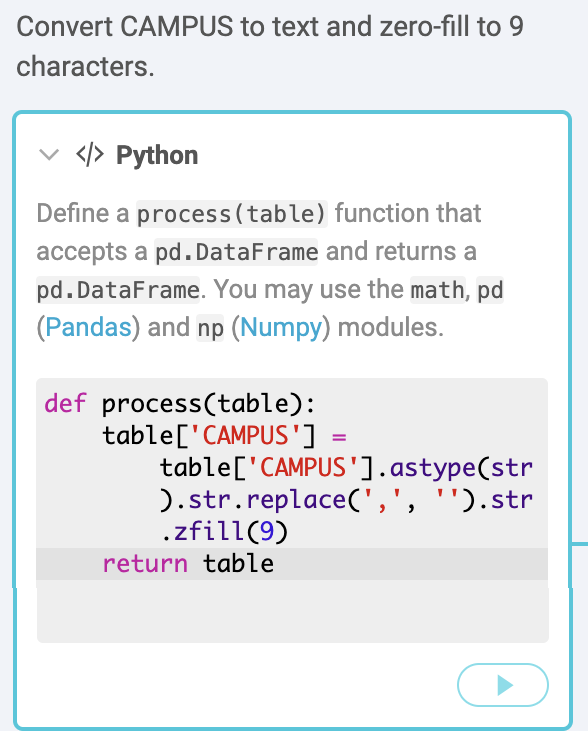
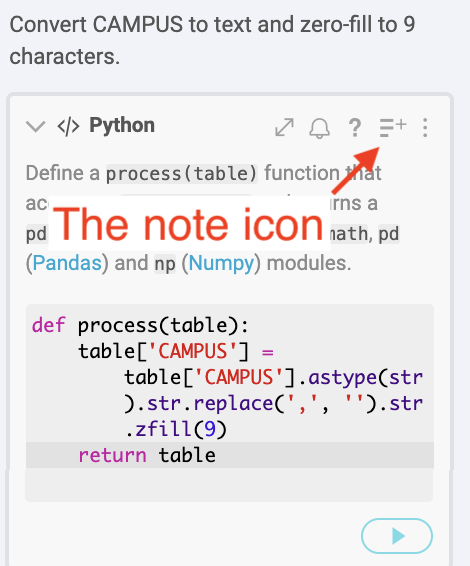
typos and fixes

diff --git a/ed-special-ed/rubric-wb.md b/ed-special-ed/rubric-wb.md
@@ -8,21 +8,21 @@ The goal is to find the answer to the following questions:
 
 - Which Austin ISD campus serves the highest percentage of Special Education students in 2019?
 - Which AISD campuses had the greatest percentage point change in Special Education students from 2015 to 2019?
-- How many AISD schools are above and below the previous special education "audit threshold" of 8.5%?
+- How many AISD schools are at or above the previous special education "audit threshold" of 8.5%?
 
-We will filter our list to focus on "Regular Instructional" schools, and not alternative, disciplinary or schools part of the justice system.
+We will filter our list to focus on "Regular Instructional" schools and not alternative, disciplinary or schools part of the justice system.
 
 ## Overview of our task
 
 - To get these answers, we need to build a data set that has one row for each school, but includes the CAMPUS id and Special Ed columns from both CSTUD files, along with the School Name and District Name for each school. We do this using a "join" on the CAMPUS id, which is in all three files. This allows us to extend the width of our table to include matching columns from each of the files.
 - Before we do the join function, we will filter our list of campuses to include only "Regular Instructional" schools.
-- Then we will have to create some new columns that does math to show the change in values from the older year, 2015, and the newer year, 2016, and how they compare to the old "audit threshold" reported on by the Chronicle.
+- Then we will have to create some new columns that does math to show the change in values from the older year, 2015, and the newer year, 2019, and how they compare to the old "audit threshold" reported on by the Chronicle.
 
 > It might make sense to draw this out on a whiteboard.
 
 ## Import and clean the data sets
 
-Once past the hassle of downloading the data, there are still some challenges to getting the answers above. Follow these steps for each:
+Once past the hassle of downloading the data, there are still some challenges to getting the answers above. Follow these steps for each of the three datasets you downloaded:
 
 - Make sure you've changed the filename extension of your downloaded files from `.dat` to `.csv` or they will not import into Workbench.
 - Import each data file into its **own** Workbench tab.
@@ -31,9 +31,9 @@ Once past the hassle of downloading the data, there are still some challenges to
 
 ### Fix the CAMPUS IDs
 
-All three data fies have a CAMPUS column this `CAMPUS` column that is supposed to be text with the IDs starting with one or more zeros, like `001902001`. There is no Workbench function to fix that (as of yet), but since Workbench uses Python's [pandas](https://pandas.pydata.org/) package, we can use some use Python code to fix this.
+All three data files have a `CAMPUS` column that is supposed to be text with the IDs starting with one or more zeros, like `001902001`. There is no Workbench function to fix that (as of yet), but since Workbench uses Python's [pandas](https://pandas.pydata.org/) package, we can use some use Python code to fix this.
 
-- After importing the data, create a new Python block and replace the code with the following:
+- After importing the data, create a new **Python** step and replace the code with the following:
 
 ```python
 def process(table):
@@ -57,7 +57,7 @@ Remember to do the Python step for all three imported files.
 
 ### Rename the program columns in CSTUDs
 
-Use the **Rename columns** function and the data dictionaries ([2015](https://rptsvr1.tea.texas.gov/perfreport/tapr/2015/xplore/cstud.html) | [2019](https://rptsvr1.tea.texas.gov/perfreport/tapr/2019/xplore/cstud.html)) to give each program column a short but recognizable name instead of their funky codes like `CPETSPEC`. Include a year designation so you can tell them apart when you join the columns together, like `SpEd15 Cnt` for the count and `SpEd15 Prc` for the percent.
+Use the **Rename columns** function and the data dictionaries ([2015](https://rptsvr1.tea.texas.gov/perfreport/tapr/2015/xplore/cstud.html) | [2019](https://rptsvr1.tea.texas.gov/perfreport/tapr/2019/xplore/cstud.html)) to give each program column a short but recognizable name instead of their funky codes like `CPETSPEC`. Include a year designation so you can tell them apart when you join the columns together, like `SpEd15 Count` for the count and `SpEd15 Prc` for the percent.
 
 Remember to do this in both CSTUD files.
 
@@ -71,7 +71,7 @@ Again, remember to do this with both CSTUD years.
 
 <img src="img/sped-select.png" width="300">
 
-## Filter up CRATE data
+## Filter the CRATE data
 
 For this list of schools, we want to use some of the columns to filter out charter, alternative, disciplinary and justice department schools. We use the [Campus Accountability Summary Reference](https://rptsvr1.tea.texas.gov/perfreport/account/2019/download/camprate.html) to figure out which columns to filter on.
 
@@ -135,7 +135,7 @@ Now you can continue on the quest to find the schools with the most change in Sp
 
 ## How to describe the change
 
-Now that we have all our data in the same tab, we can us some formulas to compare the different years.
+Now that we have all our data in the same tab, we can use some formulas to compare the different years.
 
 We have two values for each year to work with: The "Count" of Special Ed students, which is the actual number of students in the program; and the "Percentage" of students in Special Education out of the total in that school.
 
@@ -143,15 +143,27 @@ We want to describe the change from one year to the next. You might review the N
 
 ### Describing the count changes
 
-- We can show the **simple difference** (or actual change) in the *count* of students from one year to the next: `New Count - Old Count = Simple Difference`. Example: `10 - 4 = 6`, or "The school served six more Special Education students in 2019 (10 students) compared to 2015 (4 students)".
-- We can show the **percent change** in the *count* of students from one year to the next: `((New Count - Old Count) / Old Count) * 100 = Percent change`. Example: `((10 - 4) \ 4) * 100 = 150%`. "The number of Special Education students served increased 150% from 4 in 2015 to 10 in 2019."
+- We can show the **simple difference** (or actual change) in the *count* of students from one year to the next. We'll assume there were `4` students in 2015 and `10` in 2019:
+  - `New Count - Old Count = Simple Difference`.
+  - Example: `10 - 4 = 6`.
+  - "The school served six more Special Education students in 2019 (10 students) compared to 2015 (four students)".
+- We can show the **percent change** in the *count* of students from one year to the next:
+  - `((New Count - Old Count) / Old Count) * 100 = Percent change`.
+  - Example: `((10 - 4) \ 4) * 100 = 150%`.
+  - "The number of Special Education students served increased 150% from four in 2015 to 10 in 2019."
 
 ### Describing percentage differences
 
 We also have the *percentage* of Special Education students in the school, which could be important. This is the share of students that are in the program compared to the total students in the school.
 
-- We can find the **percentage point difference** from one year to the next using simple change again, but we have the describe the change as the difference in percentage points: `New Percentage - Old Percentage = Percentage Point Difference`. Example: `15.5% - 11% = 4.5 percentage points` (NOT 4.5%). "The percentage of students in Special Education grew by 4.5 percentage points, from 11% in 2015 to 15.5% in 2019."
-- We can find the **percent change of share** from one year to the next, but we have to again be very specific about what we are talking about ... the growth (or decrease) of the _share_ of students in Special Education. `((New Percentage - Old Percentage) / Old Percentage * 100) = Change in share of students`. Example: `((15.5 - 11) / 11) * 100 = 40.9`. "The share of students in Special Education grew 40% from 11% of students in 2015 to 15.5% of students in 2019." This describes the growth in the share of students in the program, not the number of Special Education students overall.
+- We can find the **percentage point difference** from one year to the next using simple change again, but we have the describe the change as the difference in percentage points:
+  - `New Percentage - Old Percentage = Percentage Point Difference`.
+  - Example: `15.5% - 11% = 4.5 percentage points` (NOT 4.5%).
+  - "The percentage of students in Special Education grew by 4.5 percentage points, from 11% in 2015 to 15.5% in 2019."
+- We can find the **percent change of share** from one year to the next, but we have to again be very specific about what we are talking about ... the growth (or decrease) of the _share_ of students in Special Education.
+  - `((New Percentage - Old Percentage) / Old Percentage * 100) = Change in share of students`.
+  - Example: `((15.5 - 11) / 11) * 100 = 40.9`.
+  - "The share of students in Special Education grew 40% from 11% of students in 2015 to 15.5% of students in 2019." This describes the growth in the share of students in the program, not the number of Special Education students overall.
 
 Describing a percentage point difference to readers can be difficult, but perhaps less confusing than describing the percent change of a percent.
 
@@ -159,7 +171,7 @@ Great, so which do we use? That depends on what you want to describe, of course.
 
 ## Create our calculations
 
-We'll make new columns to help us describe several of those outlined above.
+We'll make new columns to help us describe several of those changes outlined above.
 
 ### Difference in count
 
@@ -178,12 +190,13 @@ This will tell us the gain or drop of actual students from year to year.
 - Add a step **Convert to numbers**.
 - Add the new "SpEd Count Diff" column.
 - Leave the format as "United States".
-- Leave the value "Any number"
+- Leave the value "Any number".
 - Change the **Display as** to "Integer: 1,500".
+- **Add a note** to explain the step.
 
 <img src="img/diff-to-number.png" width="300">
 
-Now you have a column that shows the gain or loss of students from 2015 to 2019.
+Look to the far right of your table and you should now have a column that shows the gain or loss of students from 2015 to 2019. Check it against the count values in your table to make sure it is right.
 
 ### Percent change in students
 
@@ -198,9 +211,9 @@ Now we'll create a column to show the percent change in students, again using th
 
 <img src="img/sped-cnt-prcchg.png" width="300">
 
-This formula looks complicated because we are really doing two things. In this case, we are using the percent change formula of `((New-Old)/Old) * 100)`. That gives us number with a bunch of decimal places, so we are putting it inside the ROUND formula: `ROUND(value,places)`. In our case the "value" is our percent-change formula, and the "places" is "1" to give us tenths. So, we are nesting our percent change formula inside the rounding formula.
+This formula looks complicated because we are really doing two things. In this case, we are using the percent change formula of `((New-Old)/Old) * 100)`. That gives us a number with a bunch of decimal places, so we are putting it inside the ROUND formula: `ROUND(value,places)`. In our case the "value" is our percent-change formula, and the "places" is "1" to give us tenths. So, we are nesting our percent change formula inside the rounding formula.
 
-> Tell me: Which is better ... to show you the complete formula first, or to do the percent change, then adapt the formula for rounding?
+> Give me feedback: Which is better ... to show you the complete formula first, or to do the percent change, then adapt the formula for rounding?
 
 Because of a Workbench bug, this new column might also end up as text instead of a number. We'll wait to change it because we can convert the next one at the same time as well.
 
@@ -211,7 +224,7 @@ Now we'll build the "Percent point difference" of the share of Special Education
 - Create a new step using **Formula**.
 - For the formula type use **Excel**.
 - Check the box for **Apply to all rows**.
-- For your **Formula**, start with the newer "SpEd Prc" column for 2019 and then subtract the older one from 2015. We again should nest it inside a ROUND formula: `=ROUND(E1-C1,1)`.
+- For your **Formula**, start with the newer `SpEd Prc` column for 2019 and then subtract the older one from 2015. We again should nest it inside a ROUND formula: `=ROUND(E1-C1,1)`.
 - For **Output column** name it "Sped Prc Pnt Diff".
 - **Add a note** to explain what the step/formula is for.
 
@@ -222,38 +235,38 @@ Now we'll build the "Percent point difference" of the share of Special Education
 If the Workbench bug is still present, the last two columns you created will be a datatype of "Text". We need to change both of them to Number.
 
 - Add a step **Convert to numbers**.
-- Add your last two new columns: "SpEd Count PrcCng" and "Sped Prc Pnt Diff".
+- Add your last two new columns: `SpEd Count PrcCng` and `SpEd Prc Pnt Diff`.
 - Leave the format as "United States".
-- Leave the value "Any number"
+- Leave the value "Any number".
 - Change the **Display as** to "Decimal: 1,500.0012".
 
-We now have comparison columns we can use to look further into the data for a story.
+We now have a value to describe how the percentage has changed from year to year.
 
 ### Create audit threshold columns
 
 Our story is a follow-up to the Chronicle's reporting in the Denied series, which found that the TEA would audit schools that had a special education rate of 8.5% or higher. Let's figure out which schools fell into that category in each year.
 
-The formula we are using is Excel's [IF](https://support.office.com/en-us/article/if-function-69aed7c9-4e8a-4755-a9bc-aa8bbff73be2) formula. It works like this: `=IF(test, true, false)`. In the "test" field, we'll compare the percentage to 8.5%. If it is true, we will insert the text "Y" and if it is false, we'll say "N".
+The formula we are using is [Excel's IF](https://support.office.com/en-us/article/if-function-69aed7c9-4e8a-4755-a9bc-aa8bbff73be2) formula. It works like this: `=IF(test, true, false)`. In the "test" field, we'll compare the percentage to 8.5%. If it is true, we will insert the text "Y" and if it is false, we'll say "N".
 
 - On the SPED data, start a new step using **Formula** for **Excel**.
 - Look closely to see which of your column letter is the "SpEd15 Prc" column, which is the one we want. Mine is the `C` column.
-- For the Formula, use `=IF(C1>=8.5,"Y","N")`. Use your columns instead of C if it is different.
+- For the Formula, use `=IF(C1>=8.5,"Y","N")`. Use your column instead of `C` if it is different.
 - For the Output column, name it "SpEd15 Thrshld".
 
 <img src="img/sped-15-threshold.png" width="300">
 
 **On your own**: Repeat these steps for your 2019 data.
 
-We'll use these new fields later.
+Now we have a column that tells us if the school is at or above the audit threshold. We'll use these new fields later.
 
 ## Create Austin ISD comparisons
 
-We've been doing all this work on all the schools in the state, but we really want to look at Austin ISD. We'll create a new column to filter down to just the Austin schools and then sort to show the schools with the most new Special Education students at the top.
+We've been doing all this work on all the schools in the state, but we really want to look at Austin ISD. We'll create a new tab to filter down to just the Austin schools and then sort to show the schools with the most new Special Education students at the top.
 
 - Create a **new tab** and call it "AISD Diff".
 - Use **Start from tab** and choose your "SPED" tab.
 - Add a new function called **Filter by condition**.
-- For **Select column** add the "District name" column.
+- For **Select column** add the `DISTNAME` column.
 - For **Select condition** choose "Text contains".
 - For **Value** type in "AUSTIN ISD".
 
@@ -301,7 +314,7 @@ The last question we need to answer is how many schools were above or below the 
 
 What you've done here is the same as a pivot table in Google Sheets. The operation is counting the number of rows (or schools in our case) for each value combination.
 
-<img src="img/sped-thresh-result.png" width="400">
+<img src="img/sped-thresh-result.png" width="500">
 
 So there are 16 schools that were below the threshold both in 2015 and 2019, but 31 schools climbed above that threshold in 2019.
 
@@ -315,15 +328,13 @@ If you want to know which school gained the highest share of Special Education s
 
 You can describe how many schools climbed above the TEA's 2004 threshold, and how many were over it in 2015 before the law changed.
 
-> Food for thought: How might you find similar schools in the whole state so you can compare how Austin ISD ranks against them? Be careful not to change the values in your SPED column, as all the AISD columns use that.
-
 ## Turning in your work
 
-For the writing part of the assignment below you might have to re-sort some of these columns, but you shouldn't have to create any more. Be careful not to make changes (beyond sorting) to a tab that is the source of another tab ... those changes carry forward and can lead to confusion and unexpected results. If for some reason you want to explore a new fact, you should start a new tab and pull data into it before any filtering, selecting or grouping.
+For the writing part of the assignment below you should already have everything you need. If you want to explore the data more, be careful not to make changes (beyond sorting) to a tab that is the source of another tab ... those changes carry forward and can lead to confusion and unexpected results. If for some reason you want to explore a new fact, you should start a new tab and pull data into it before any filtering, selecting or grouping.
 
 ### Writing assignment
 
-Using Google Docs, write three "data nut graphs" -- a sentence (or paragraph) in a story that succinctly describes a data fact -- as if each were just a part of a complete news story. You don't need a lede. You aren't writing a whole story ... just three sentences or paragraphs, each describing of these facts.
+Using Google Docs, write three "data nut graphs" -- a sentence (or paragraph) in a story that succinctly describes a data fact -- as if each were just a part of a complete news story. You don't need a lede. You aren't writing a whole story ... just three sentences or paragraphs, each describing of these facts. **Be sure to share the doc to me as an editor.**
 
 - Which AUSTIN ISD school served the highest percentage of Special Education students?
 - Which AUSTIN ISD school had the greatest increase in Special Education students?
@@ -333,11 +344,15 @@ Lastly write a paragraph that explains the source of your data and the criteria 
 
 ### Questions for sources
 
-If you were writing a news story about Special Education and you had the data above, what are the **three** things you want to know next? For each question, who would you ask? (Just titles or classes of people, not actual contacts.)
+If you were writing a news story about Special Education and you had the data above, what are the **three things you want to know next**? For each question, who would you ask? (Just titles or classes of people, not actual contacts.)
 
 ### Workbench assignment
 
-- Make your Workbench workflow public. (Click on the share button, then check the "public" box.) Copy and include the link in your story or submit the link with the assignment.
+Make your Workbench workflow public. (Click on the share button, then check the "public" box.) Copy and include the link in your story or submit the link with the assignment.
+
+## Extending this assignment
+
+Food for thought: How might you find similar schools in the whole state so you can compare how Austin ISD ranks against them? This is not required for the assignment, but if you try it be careful not to change the values in your SPED column, as all the AISD columns use that.
 
 ## Ignore this
 

diff --git a/ed-special-ed/README.md b/ed-special-ed/README.md
@@ -1,8 +1,8 @@
 # Special Education student change
 
-The goal of this assignment is to use TEA data to find out which schools in Austin ISD (and the state in general) have the most growth in Special Education students in the past five years.
+The goal of this assignment is to use TEA data to find out which schools in Austin ISD have the most growth in Special Education students in the past five years.
 
-In 2016, the Houston Chronicle published a multi-part series called [Denied](https://www.houstonchronicle.com/denied/1/) that outlined how a TEA policy started in 2004 to audit schools with more than 8.5% Special Education students had a chilling effect on those services. From their story:
+In 2016, the Houston Chronicle published a multi-part series called [Denied](https://www.houstonchronicle.com/denied/1/) that outlined how a TEA policy started in 2004 would force an audit of schools with more than 8.5% of their students their Special Education students. From their story:
 
 > Over a decade ago, the officials arbitrarily decided what percentage of students should get special education services — 8.5 percent — and since then they have forced school districts to comply by strictly auditing those serving too many kids.
 
@@ -43,7 +43,7 @@ If you inspect either file you'll see there are no school or district names in t
 
 ## Campus info from Accountability ratings
 
-The TAPR campus information data does not include any fileds to indicate if a school is disciplinary school, part of the juvenile justice department or otherwise an alternative schools. To get data with the campus and district names that do have these values, we have go to TEA's [Accountability ratings](https://rptsvr1.tea.texas.gov/perfreport/account/2019/download.html) and download the Campus-level Accountability Summary for "Campus Flag Characteristics" along with the campus and district names.
+The TAPR campus information data does not include any fileds to indicate if a school is disciplinary school, part of the juvenile justice department or otherwise an alternative school. To get data with the campus and district names that do have these values, we have go to TEA's [Accountability ratings](https://rptsvr1.tea.texas.gov/perfreport/account/2019/download.html) and download the Campus-level Accountability Summary for "Campus Flag Characteristics" along with the campus and district names.
 
 - Go to the TEA's [Accountability ratings](https://tea.texas.gov/Student_Testing_and_Accountability/Accountability/State_Accountability/Performance_Reporting/2019_Accountability_Rating_System) site.
 - Go down to **Data download** and click on the link.
